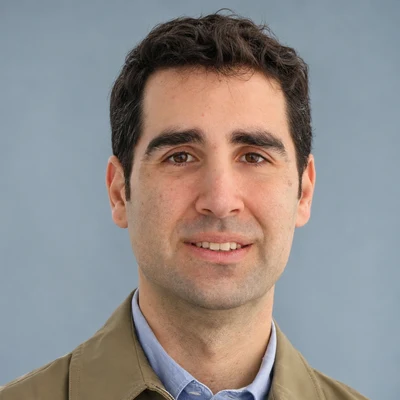
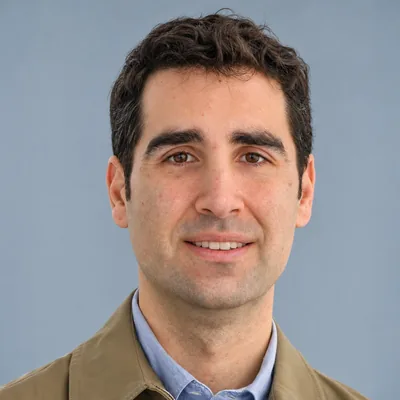
Refresh professional portrait across profile and sharing cards

diff --git a/build.py b/build.py
@@ -242,7 +242,7 @@ def lab_page(lang):
  shell(lang,'lab/',t('Laboratorio de Antonio Alfonso | Experimentos y recursos abiertos','Antonio Alfonso’s lab | Experiments and open resources',lang),t('Demostración interactiva de incertidumbre estadística, cuadernos Python y materiales institucionales abiertos de economía experimental.','Interactive statistical-uncertainty demonstration, Python notebooks and open institutional materials in experimental economics.',lang),body,'lab/')
 
 def privacy(lang):
- body=f'''<section class="section"><div class="wrap privacy"><h1>{t('Privacidad y créditos.','Privacy and credits.',lang)}</h1><h2>{t('Una web sin seguimiento propio','No first-party tracking',lang)}</h2><p>{t('Esta web no incorpora analítica, cookies propias, formularios ni seguimiento publicitario. La búsqueda y la demostración se ejecutan en tu navegador. GitHub Pages recibe las solicitudes técnicas habituales de navegación.','This website has no analytics, first-party cookies, forms or advertising tracking. Search and the demonstration run in your browser. GitHub Pages receives normal technical navigation requests.',lang)}</p><p>{t('Los filtros de publicaciones y los parámetros sintéticos del laboratorio se conservan en la dirección de la página para reproducirlos al abrir o compartir ese enlace.','Publication filters and synthetic lab settings are kept in the page address so opening or sharing that link reproduces them.',lang)}</p><h2>{t('Enlaces y contacto','Links and contact',lang)}</h2><p>{t('Los artículos, repositorios y demostraciones externas tienen sus propias condiciones. El enlace de correo abre tu aplicación de email. No se envía ningún mensaje automáticamente.','External articles, repositories and demonstrations have their own terms. The email link opens your email application. No message is sent automatically.',lang)}</p><h2 id="image-credits">{t('Contenido e imágenes','Content and images',lang)}</h2><p>{t('Los resultados científicos pertenecen a sus equipos de autoría y se enlazan a sus fuentes. Las miniaturas son ilustraciones temáticas generadas con IA para este portfolio. El retrato parte de una fotografía facilitada por Antonio Alfonso y se ha editado para renovar el fondo y la iluminación.','Scientific findings belong to their author teams and are linked to their sources. The thumbnails are thematic illustrations generated with AI for this portfolio. The portrait is based on a photograph supplied by Antonio Alfonso, edited to renew the background and lighting.',lang)}</p><p>{t('La selección de trabajos destaca alcance y relevancia aplicada; no constituye una clasificación de citas. Los diagramas del portfolio son esquemas explicativos.','The work selection highlights scope and applied relevance; it is not a citation ranking. Portfolio diagrams are explanatory schematics.',lang)}</p><p>{t('Contacto','Contact',lang)}: {link('mailto:aalfonsoc@gmail.com','aalfonsoc@gmail.com')}</p></div></section>'''
+ body=f'''<section class="section"><div class="wrap privacy"><h1>{t('Privacidad y créditos.','Privacy and credits.',lang)}</h1><h2>{t('Una web sin seguimiento propio','No first-party tracking',lang)}</h2><p>{t('Esta web no incorpora analítica, cookies propias, formularios ni seguimiento publicitario. La búsqueda y la demostración se ejecutan en tu navegador. GitHub Pages recibe las solicitudes técnicas habituales de navegación.','This website has no analytics, first-party cookies, forms or advertising tracking. Search and the demonstration run in your browser. GitHub Pages receives normal technical navigation requests.',lang)}</p><p>{t('Los filtros de publicaciones y los parámetros sintéticos del laboratorio se conservan en la dirección de la página para reproducirlos al abrir o compartir ese enlace.','Publication filters and synthetic lab settings are kept in the page address so opening or sharing that link reproduces them.',lang)}</p><h2>{t('Enlaces y contacto','Links and contact',lang)}</h2><p>{t('Los artículos, repositorios y demostraciones externas tienen sus propias condiciones. El enlace de correo abre tu aplicación de email. No se envía ningún mensaje automáticamente.','External articles, repositories and demonstrations have their own terms. The email link opens your email application. No message is sent automatically.',lang)}</p><h2 id="image-credits">{t('Contenido e imágenes','Content and images',lang)}</h2><p>{t('Los resultados científicos pertenecen a sus equipos de autoría y se enlazan a sus fuentes. Las miniaturas son ilustraciones temáticas generadas con IA para este portfolio. El retrato parte de una fotografía facilitada por Antonio Alfonso y se ha retocado con IA para ajustar el fondo, la iluminación y la expresión.','Scientific findings belong to their author teams and are linked to their sources. The thumbnails are thematic illustrations generated with AI for this portfolio. The portrait is based on a photograph supplied by Antonio Alfonso, retouched with AI to adjust the background, lighting and expression.',lang)}</p><p>{t('La selección de trabajos destaca alcance y relevancia aplicada; no constituye una clasificación de citas. Los diagramas del portfolio son esquemas explicativos.','The work selection highlights scope and applied relevance; it is not a citation ranking. Portfolio diagrams are explanatory schematics.',lang)}</p><p>{t('Contacto','Contact',lang)}: {link('mailto:aalfonsoc@gmail.com','aalfonsoc@gmail.com')}</p></div></section>'''
  shell(lang,'privacy/',t('Privacidad y créditos | Antonio Alfonso','Privacy and credits | Antonio Alfonso',lang),t('Información sobre privacidad, fuentes y créditos de la web profesional de Antonio Alfonso.','Privacy, sources and credits for Antonio Alfonso’s professional website.',lang),body,navkey='privacy/')
 
 def render(output, content, site_url):
